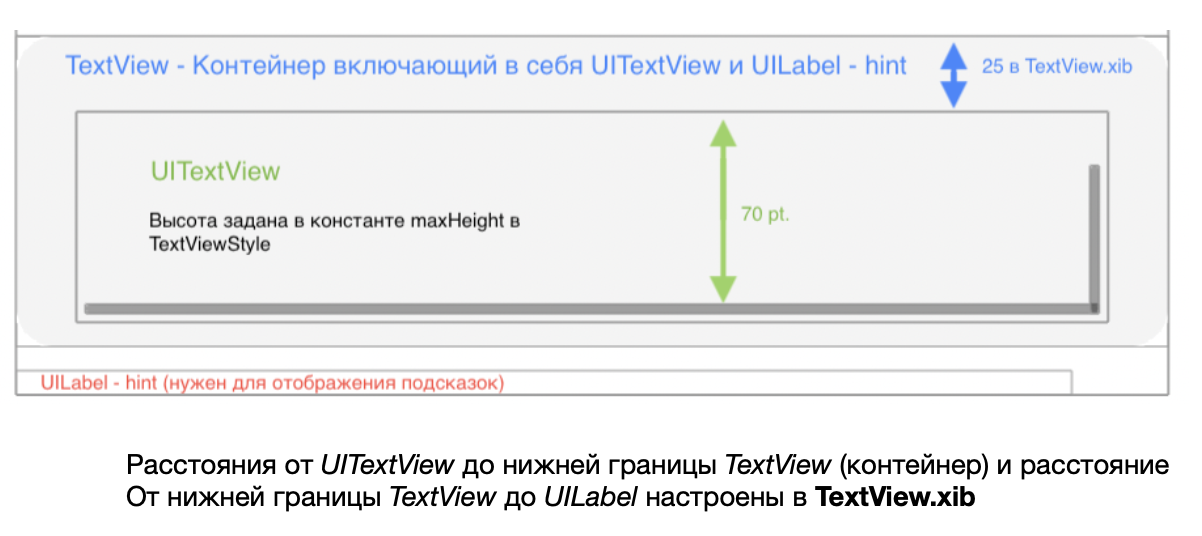
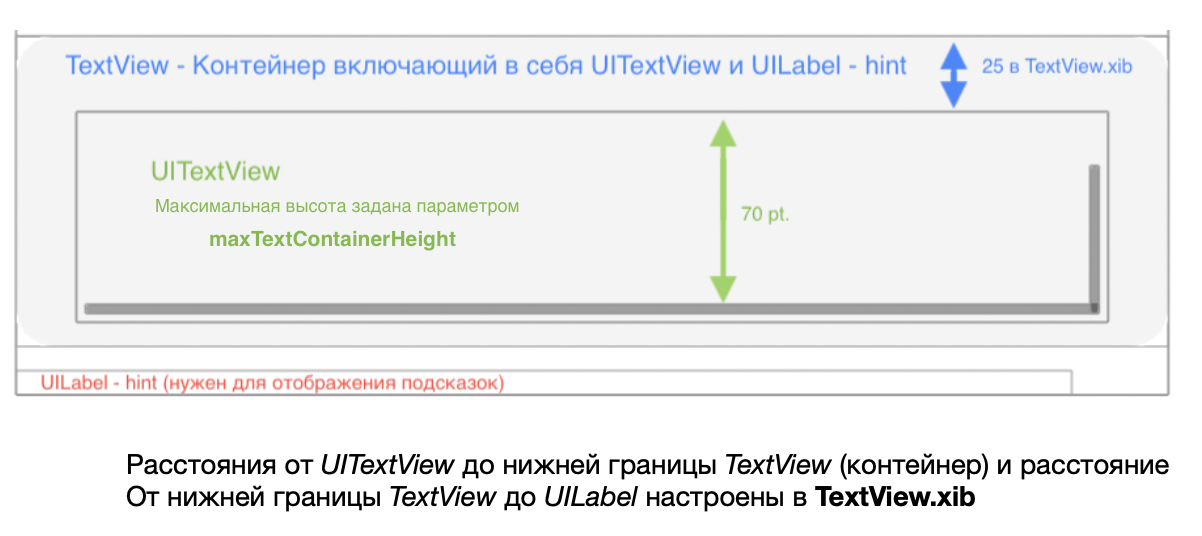
Edited screen

Changed region(s): [[0.1231, 0.3582, 0.4309, 0.4776]]

diff --git a/tech_docs/Usage.md b/tech_docs/Usage.md
@@ -455,7 +455,7 @@ textField.maskFormatter = MaskTextFieldFormatter(mask: FormatterMasks.phone)
 
 Поле ввода имеет дополнительную фичу - при наборе текста, если длина введенного значения больше 0, появляется кнопка очистки содержимого. Ее можно скрыть полностью с помощью такой переменной поля, как `hideClearButton`, по умолчанию установленной в `false`. Но если вы не собираетесь ее скрывать - пристуствует возможность кастомизации данной кнопки.
 
-Конфигурация высоты UnderlinedTextView:
+### Конфигурация высоты UnderlinedTextView:
 
 Для установки высоты нужно задать 2 параметра `maxTextContainerHeight` и `flexibleHeightPolicy`
 - Первый параметр определяет высоту контейнера, т.е. место где будет находиться сам текст (`UITextView`)
@@ -475,6 +475,8 @@ textView.flexibleHeightPolicy = FlexibleHeightPolicy(
     <img src="https://github.com/chausovSurfStudio/TextFieldsCatalog/blob/4fe1c6449f01e3ef360199826bf678e79086fea1/tech_docs/Images/textView_scheme.png" />
 </p>
 
+Важные моменты:
+- UILabel для поля hint не привязан к нижней гнанице супер вью. Высота настраивается в зависимости от контента внутри `UnderlineTextView`
 
 ## Побочные фичи
 
